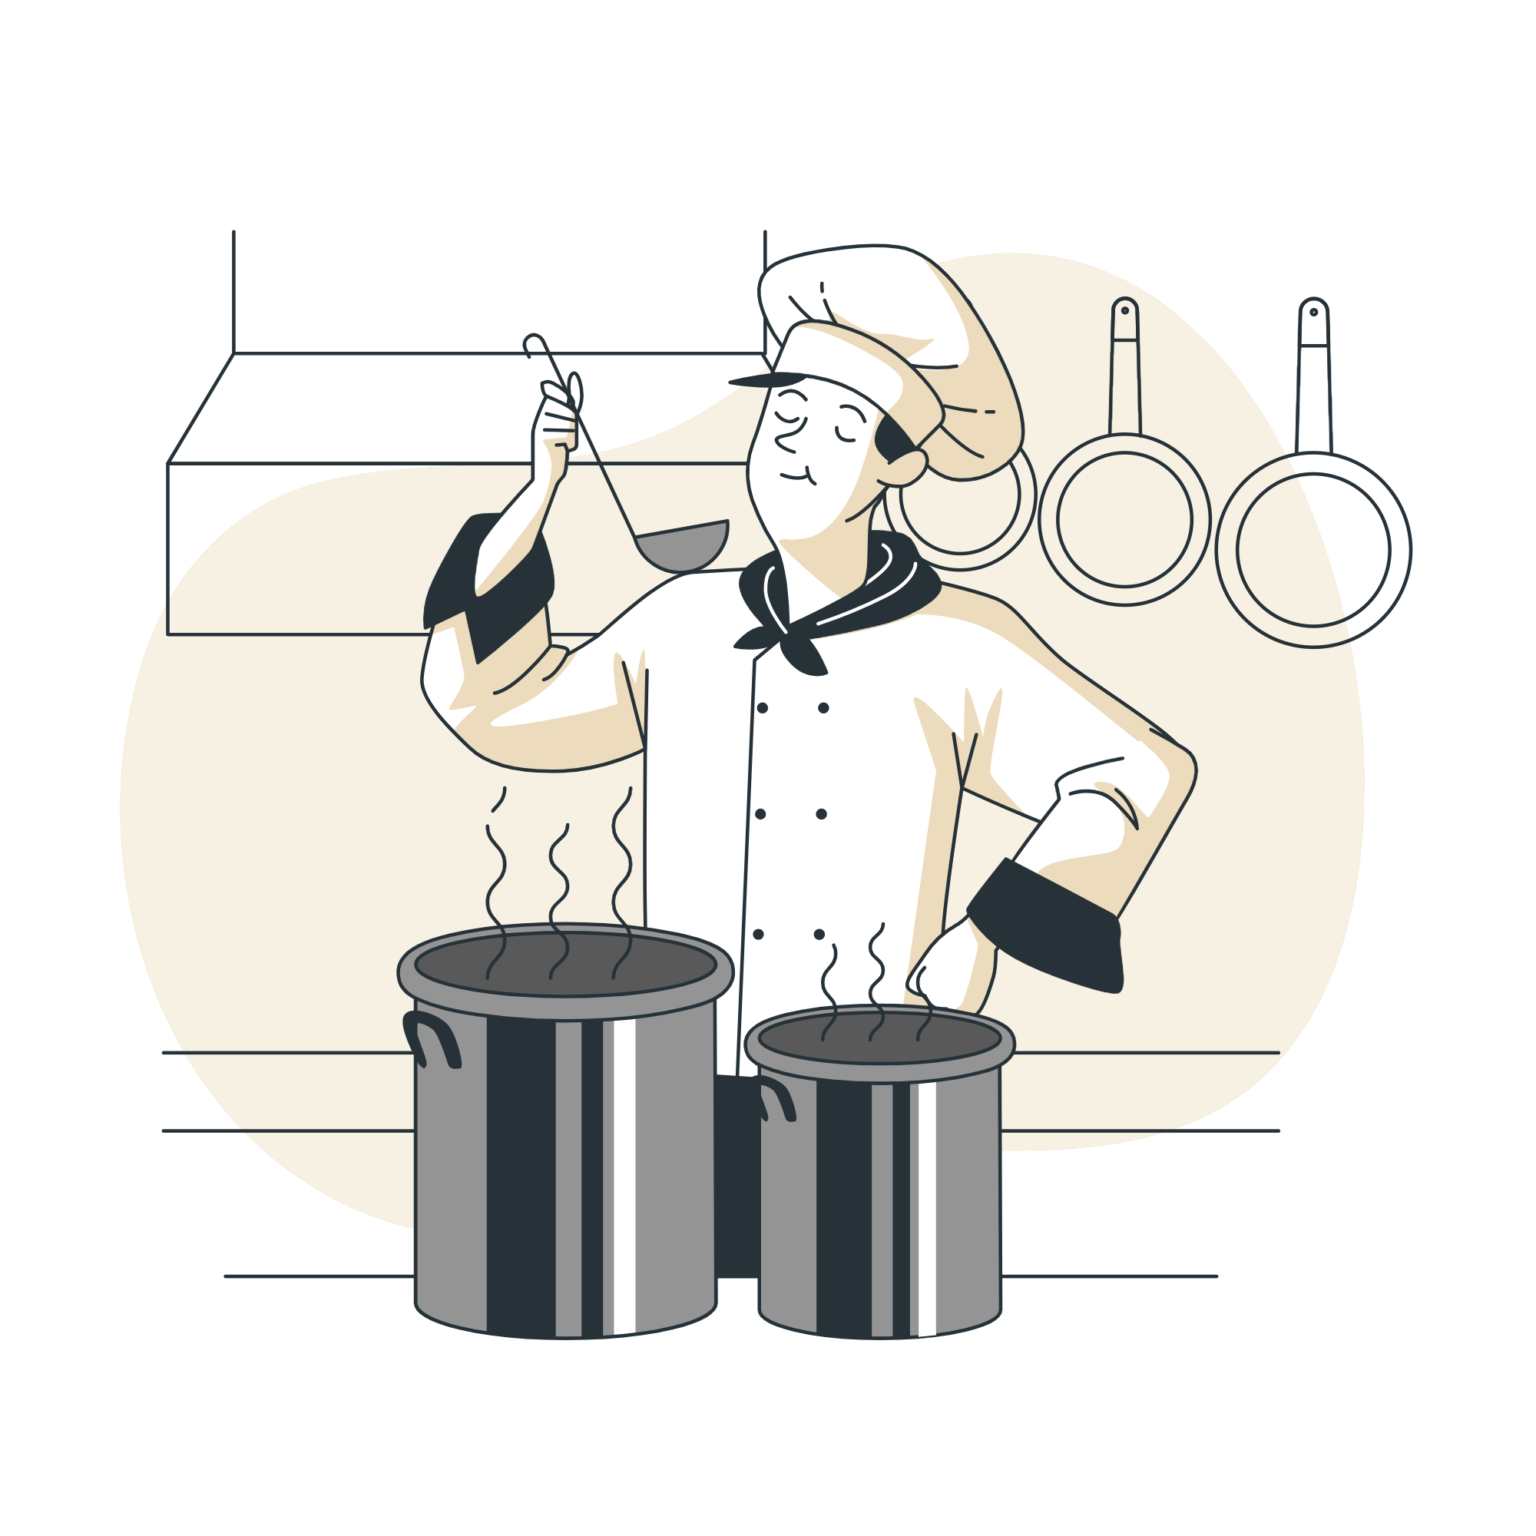
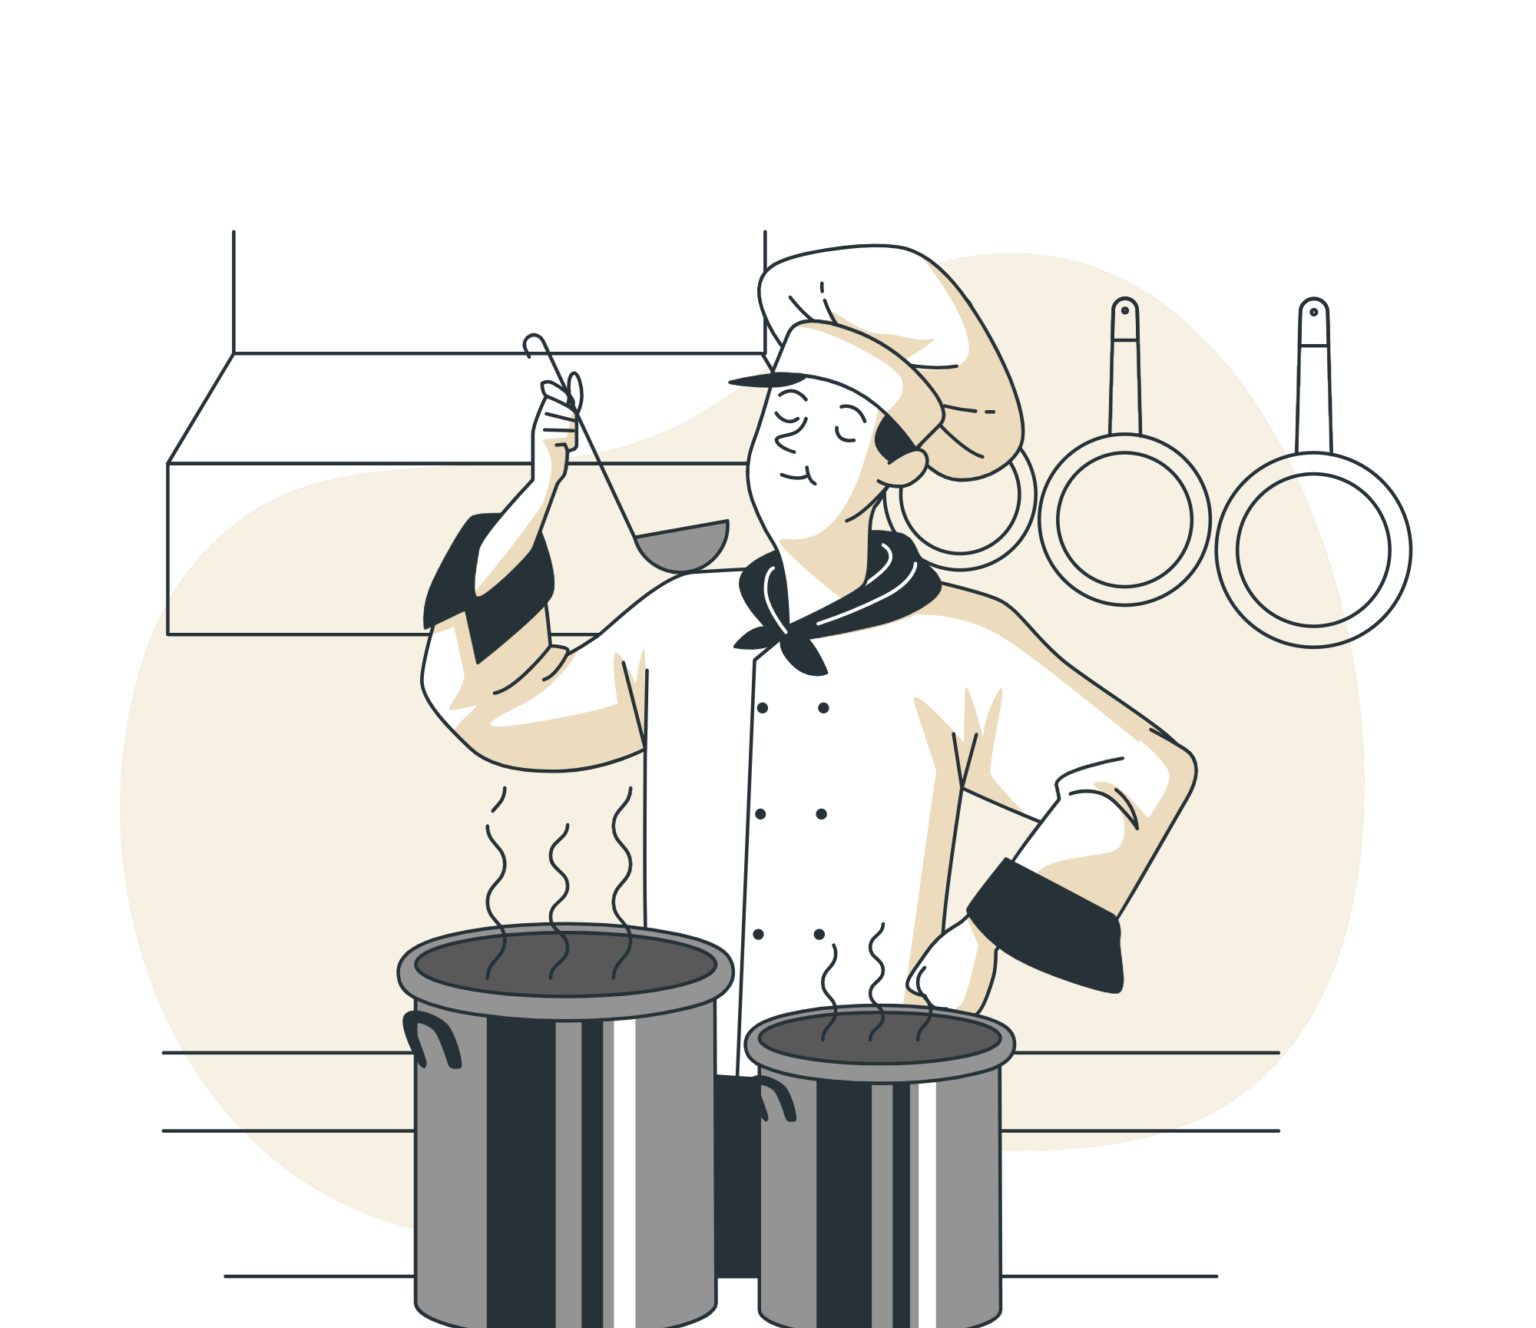
fix

diff --git a/src/components/Testimonials.tsx b/src/components/Testimonials.tsx
@@ -79,12 +79,12 @@ const Testimonials = () => {
           </div>
 
           {/* Right: prominent Google rating block */}
-          <div className="flex-shrink-0">
-            <div className="bg-white border border-brand-gold/20 rounded-3xl px-8 py-6 shadow-lg flex flex-col sm:flex-row items-center gap-6">
+          <div className="flex-shrink-0 w-full sm:w-auto">
+            <div className="bg-white border border-brand-gold/20 rounded-3xl px-6 sm:px-8 py-5 sm:py-6 shadow-lg flex flex-col sm:flex-row items-center justify-center sm:justify-start gap-4 sm:gap-6">
               {/* Score */}
               <div className="text-center">
                 <div className="flex items-baseline gap-1 justify-center">
-                  <span className="font-display font-bold text-5xl text-brand-blue leading-none">4.9</span>
+                  <span className="font-display font-bold text-4xl sm:text-5xl text-brand-blue leading-none">4.9</span>
                   <span className="text-brand-blue/40 text-lg font-bold">/5</span>
                 </div>
                 <div className="flex gap-1 text-brand-gold justify-center mt-2" aria-label="4.9 out of 5 stars">
@@ -96,10 +96,11 @@ const Testimonials = () => {
 
               {/* Divider */}
               <div className="hidden sm:block w-px h-14 bg-brand-gold/15" />
+              <div className="block sm:hidden w-full h-px bg-brand-gold/15 my-1" />
 
               {/* Detail */}
-              <div className="text-center sm:text-left">
-                <div className="flex items-center gap-2 mb-1">
+              <div className="text-center sm:text-left flex flex-col items-center sm:items-start">
+                <div className="flex items-center gap-2 mb-1 justify-center sm:justify-start">
                   <div className="w-5 h-5 rounded-full bg-[#4285F4]/10 flex items-center justify-center text-[#4285F4]">
                     <FontAwesomeIcon icon={faGoogle} className="text-xs" />
                   </div>
@@ -259,7 +260,7 @@ const Testimonials = () => {
       </div>
 
       {/* Verified Google Reviews Link CTA */}
-      <div className="text-center relative z-10">
+      <div className="text-center relative z-10 px-4">
         <motion.a
           whileHover={{
             scale: 1.03,
@@ -269,13 +270,13 @@ const Testimonials = () => {
           href={GOOGLE_MAPS_REVIEWS_URL}
           target="_blank"
           rel="noopener noreferrer"
-          className="inline-flex items-center gap-3 px-5 py-5 bg-brand-blue text-brand-cream rounded-full font-bold uppercase tracking-[0.2em] text-xs shadow-xl border border-brand-blue/10 hover:bg-brand-gold hover:text-brand-blue transition-colors duration-300"
+          className="group inline-flex items-center justify-center max-w-full gap-2.5 sm:gap-3 px-5 sm:px-8 py-3.5 sm:py-4 md:py-5 bg-brand-blue text-brand-cream rounded-full font-bold uppercase tracking-[0.1em] sm:tracking-[0.2em] text-[11px] sm:text-xs shadow-xl border border-brand-blue/10 hover:bg-brand-gold hover:text-brand-blue transition-colors duration-300 text-center"
         >
-          <FontAwesomeIcon icon={faGoogle} className="text-lg text-brand-gold group-hover:text-brand-blue" />
-          <span>View All 600+ Reviews on Google</span>
-          <ExternalLink size={14} />
+          <FontAwesomeIcon icon={faGoogle} className="text-base sm:text-lg text-brand-gold group-hover:text-brand-blue transition-colors duration-300 shrink-0" />
+          <span className="leading-tight">View All 600+ Reviews on Google</span>
+          <ExternalLink size={14} className="shrink-0 transition-transform group-hover:translate-x-0.5" />
         </motion.a>
-        <p className="text-brand-blue/50 text-[11px] mt-3 font-medium">
+        <p className="text-brand-blue/50 text-[11px] mt-3 font-medium px-2">
           Verified reviews on Google Business Profile for Udupi Vrindavan Restaurant LLC
         </p>
       </div>
